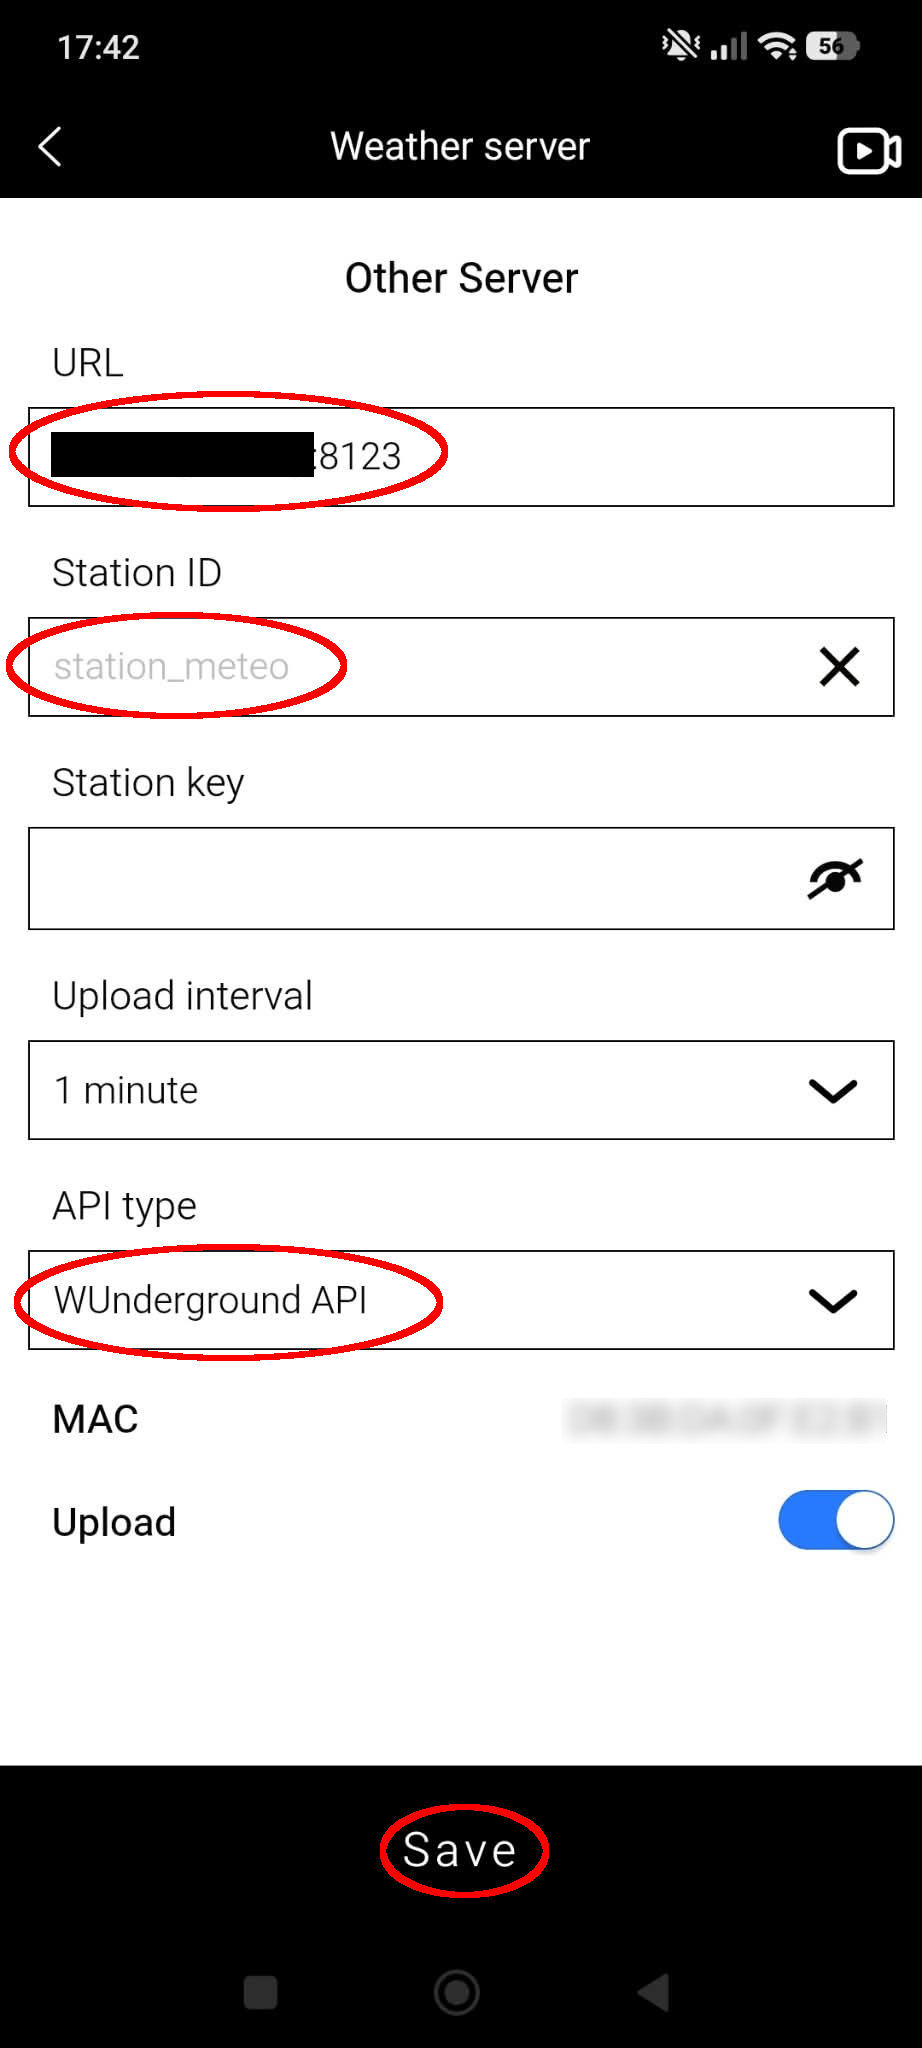
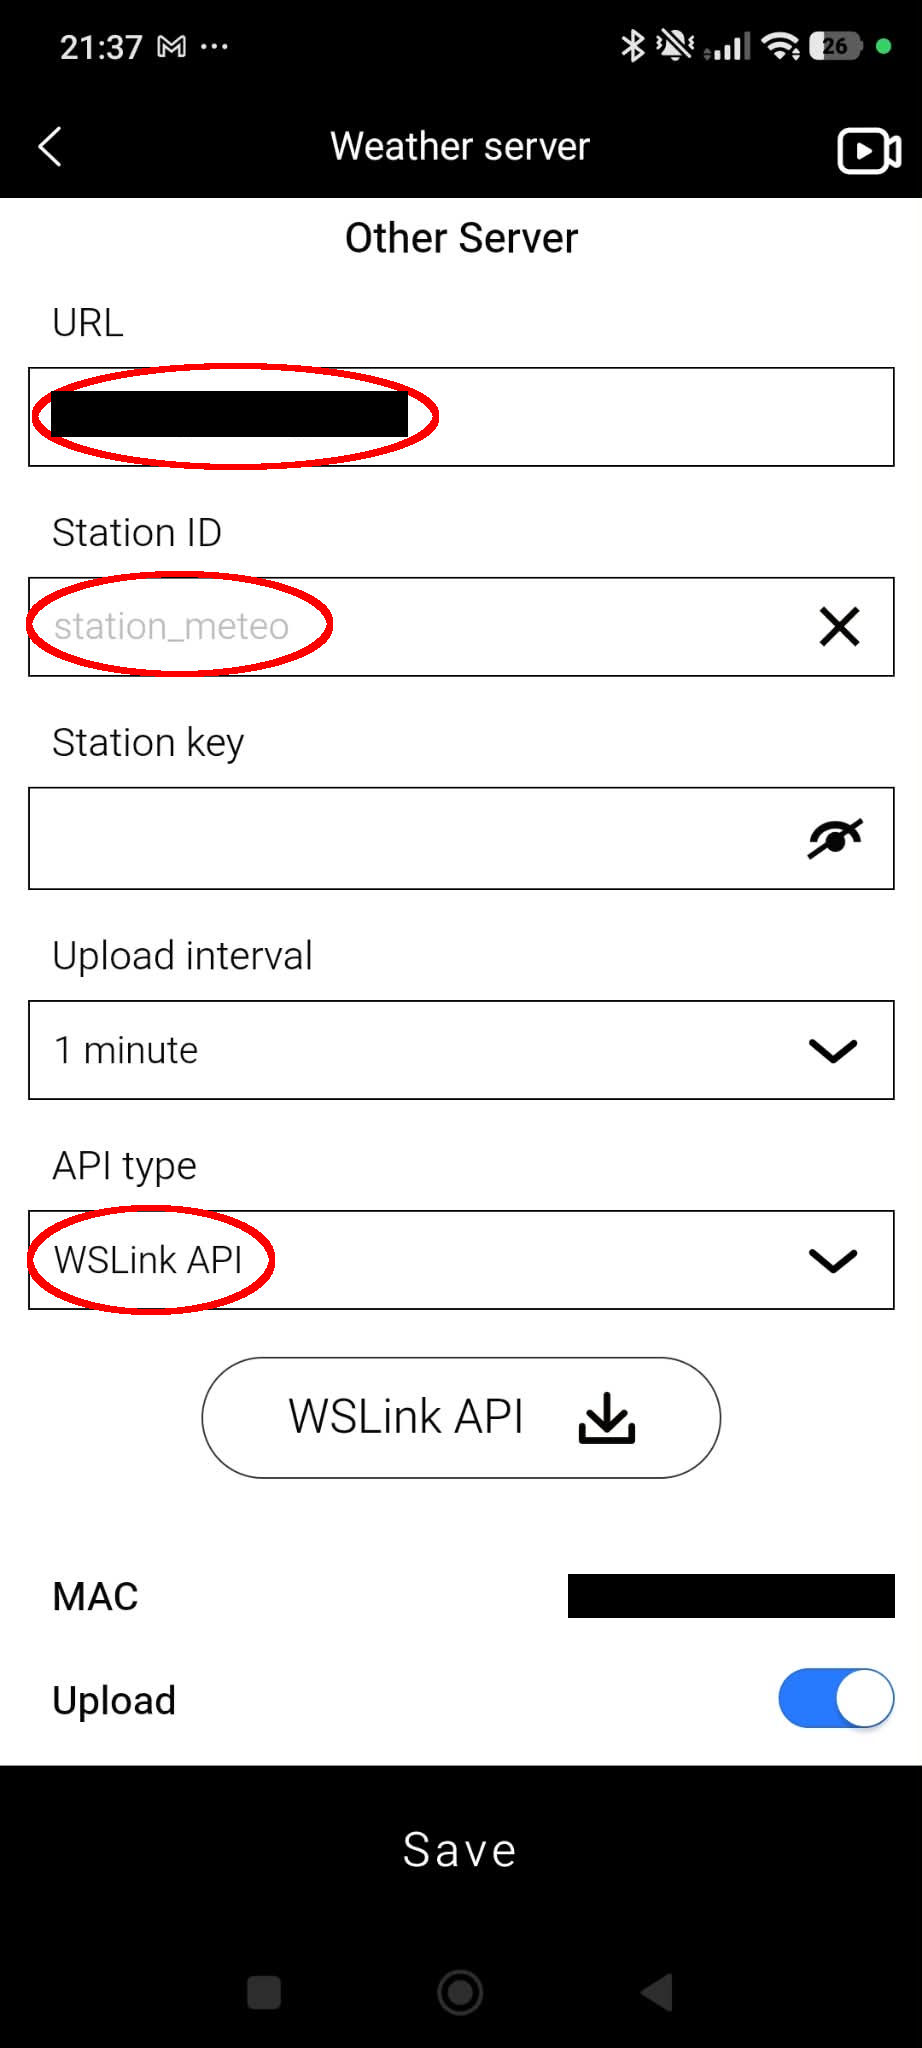
docs: replace the server screenshot with one showing WSLink API
The previous capture showed WUnderground API selected, which now
contradicts the readme's own recommendation. It also masked the MAC with
a gaussian blur rather than an opaque bar.

Mentions the WSLink API download button visible on that screen: it is
where the protocol documentation in this repository comes from.

Claude-Session: https://claude.ai/code/session_017D3bUKx2x26UDGNPzMgdNp

diff --git a/docs/readme.fr.md b/docs/readme.fr.md
@@ -164,6 +164,9 @@ est celui qui permet de diriger la station vers votre propre Home Assistant.
 > Les deux fonctionnent et sont pris en charge ici. WUnderground API n'est le bon
 > choix que si votre station ne propose pas WSLink.
 
+Le bouton **WSLink API ⤓** en dessous vous remet la documentation du protocole,
+si vous voulez savoir exactement ce que votre station envoie.
+
 Appuyez ensuite sur **Save**.
 
 **5. Confirm & Exit**

diff --git a/readme.md b/readme.md
@@ -152,6 +152,9 @@ is the one that lets you point the station at your own Home Assistant.
 > Both work, and both are supported here. WUnderground API is the right choice
 > only when your station does not offer WSLink.
 
+The **WSLink API ⤓** button below hands you the protocol documentation, if you
+want to know exactly what your station sends.
+
 Then press **Save**.
 
 **5. Confirm & Exit**
